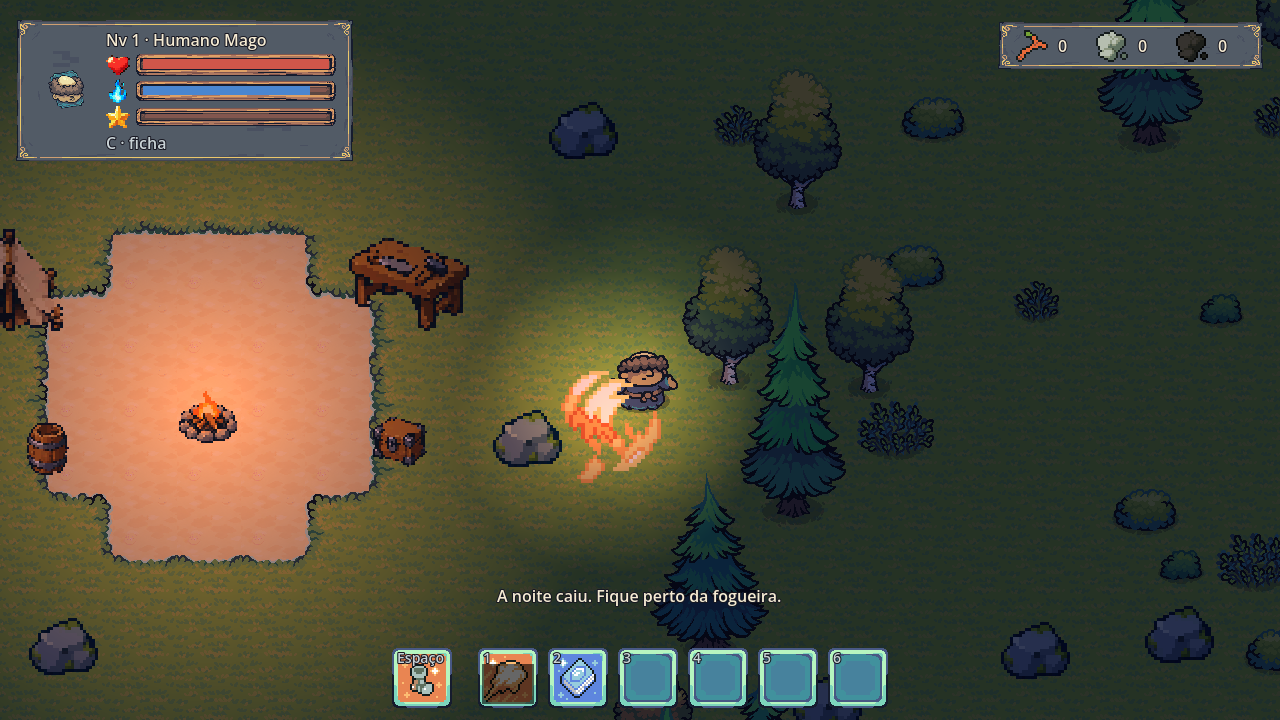
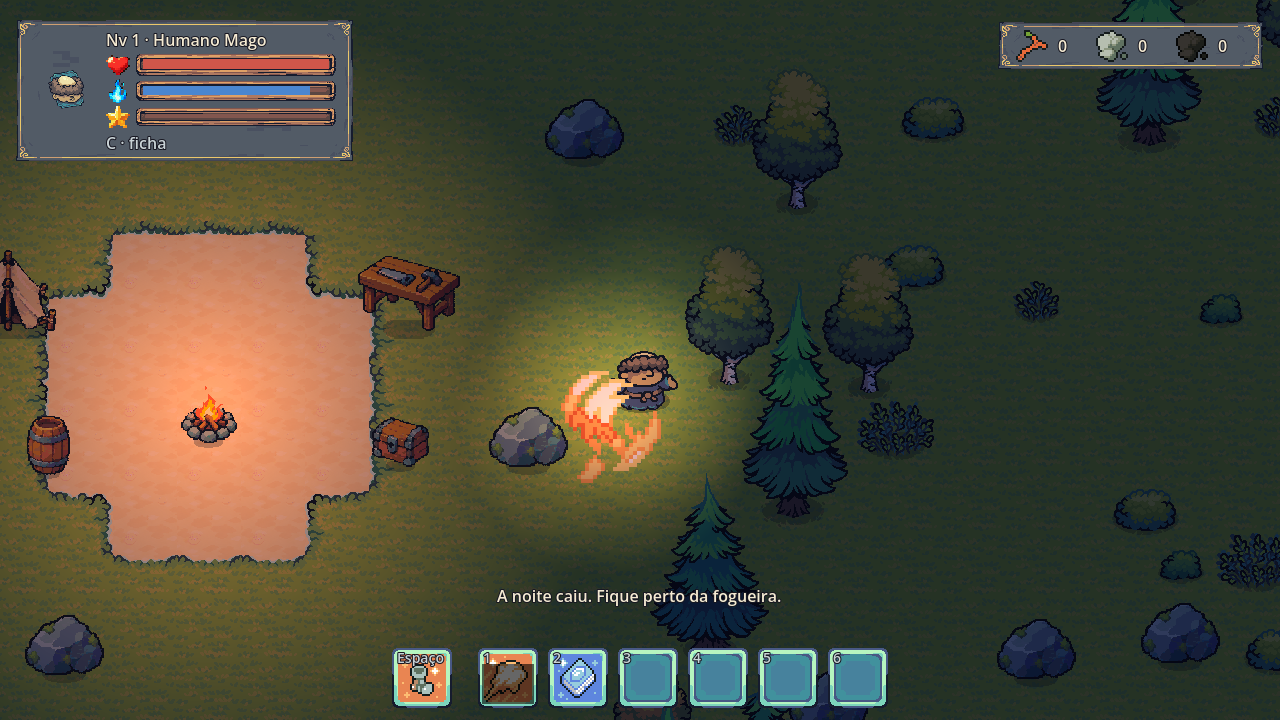
L14: acampamento, pedras, cogumelo e slime refeitos no pixel do Tiny Swords
- pedidos novos com régua 4x, exemplo do que não fazer e blocos FAÇA / NÃO FAÇA / NÃO SIGA
- conversão no grid do pacote (4 px), cores trocadas pela paleta do pacote e a sombra
  do próprio pacote embaixo de cada peça (importar_folha --sombra)
- comparação lado a lado aprovada antes de entrar (evidence/comparacao/l14_v2*.png)
- tudo com escala 0,25, igual às peças do pacote

diff --git a/art/prompts/pedidos/L13_personagens_base.md b/art/prompts/pedidos/L13_personagens_base.md
@@ -1,0 +1,51 @@
+# L13 · Nossos 6 personagens no estilo Tiny Swords (etapa A: só o parado)
+
+**Por quê (30/10):** o jogo está no estilo Tiny Swords e os personagens ainda são os do pacote. Estes são os NOSSOS: 2 raças x 3 classes. Antes das animações (andar, golpe), o João aprova o desenho base de cada um.
+
+**O que deu errado antes (não repetir):** no L11 e no L12 o Codex desenhou com o pixel 2 a 3 vezes maior que o do pacote, com contorno preto grosso e cores fortes. Ao lado das peças do pacote, ficou grosseiro.
+
+**Anexar, nesta ordem:**
+1. `art/prompts/reguas/personagens_4x.png`: **A RÉGUA.** Seis unidades do pacote ampliadas EXATAMENTE 4x, na MESMA grade desta folha. Copiar dela o tamanho do pixel, o tamanho do personagem, o contorno, as cores e as proporções.
+2. `evidence/comparacao/l12_atual.png`: **EXEMPLO DO QUE NÃO FAZER.** Em cima, o pacote (certo). Embaixo, a nossa tentativa anterior (errada: pixel grosso, contorno preto, cores fortes).
+3. `art/sprites/personagens/personagens_v1.png`: **SÓ para saber quem é quem** (as cores da roupa de cada um). NÃO copiar o estilo, o tamanho do pixel nem o rosto desta imagem.
+
+```text
+TAREFA: desenhar 6 personagens NOVOS que pareçam ter saído do MESMO pacote da imagem-régua anexada (o jogo Tiny Swords). Imagem 1536x1024, grade de 3 colunas x 2 linhas, células de 512x512. Cada célula tem UM personagem de 128x128 pixels de jogo, ampliado EXATAMENTE 4x (cada pixel do jogo = um quadrado de 4x4 na imagem, igual à régua).
+
+FAÇA:
+- Mesmo tamanho de pixel da régua: quadrados de 4x4, todos alinhados na mesma grade.
+- Mesmo tamanho de personagem da régua: cerca de 80 pixels de jogo de altura (320 na imagem), pés na mesma altura dos pés da régua, 16 px acima do fundo da célula.
+- Mesmo jeito de corpo da régua: cabeça grande e redonda, corpo curto e roliço, perninhas curtas e finas, mãos redondinhas.
+- Contorno de 1 pixel de jogo (4 px na imagem) na cor #161c2e em volta de tudo e entre as partes, como na régua.
+- Sombreamento em 2 ou 3 tons por material, com luz de cima à esquerda, cores apagadas como na régua. Use estas cores do pacote: #161c2e #485884 #4c5c8b #4697ac #9cbeaa #688c8a #c8a876 #efe1ab #977b6b #5e5455 #924159 #8d4848 #e76161 #cf9c71 #cea554 #44a079 #699157 #6e7e53 #ffffff.
+- Personagem de PERFIL olhando para a DIREITA, parado, igual às unidades da régua.
+- Rosto simples como o do trabalhador da régua: olhos de 2 pixels escuros, boca de 1 ou 2 pixels.
+
+OS 6 PERSONAGENS:
+1) HUMANO GUERREIRO: elmo de aço aberto (dá para ver o rosto) com pluma azul, túnica azul, escudo redondo de madeira com borda de aço, espada curta.
+2) HUMANO MAGO: capuz azul-escuro com borda dourada, mechas de cabelo castanho, túnica azul até o chão, cajado de madeira com uma pedra azul na ponta.
+3) HUMANO ARQUEIRO: capuz de couro marrom, túnica verde-musgo apagada, arco curto de madeira na mão, aljava nas costas.
+4) OGRO GUERREIRO: pele verde-acinzentada (#699157 e #6e7e53), corpo mais largo e forte que o humano (mesma altura), duas presas brancas pequenas saindo do lábio de BAIXO e apontando para cima, sem capacete, ombreira de couro, porrete de madeira grosso.
+5) OGRO MAGO: mesma pele e presas do ogro guerreiro, capuz e túnica azul-escuros com borda dourada (como o mago humano), cajado com pedra azul.
+6) OGRO ARQUEIRO: mesma pele e presas, capuz de couro MARROM e colete marrom (nada de roupa verde: a pele já é verde), arco curto e aljava.
+
+NÃO FAÇA:
+- NÃO use pixel maior que 4x4 na imagem (a tentativa anterior usou ~11 px: ficou grosseira).
+- NÃO desenhe ilustração com "cara de pixel": nada de quadradinhos de tamanhos diferentes, degradê dentro de um quadrado ou borrado.
+- NÃO use contorno preto puro nem contorno grosso de 2 ou mais pixels de jogo.
+- NÃO use cores saturadas, neon nem degradê suave.
+- NÃO desenhe sombra no chão (o jogo coloca a sombra; a mancha roxa embaixo da régua é a sombra deles sobre o magenta, ignore).
+- NÃO desenhe chão, grama, cenário, efeitos, brilho, texto, número, moldura ou linhas de grade.
+- NÃO deixe o personagem pequeno no meio da célula nem encostando na borda; nada atravessa para a célula vizinha.
+- NÃO desenhe o ogro com marcas brancas embaixo dos olhos (parecem lágrimas): as presas saem da BOCA.
+- NÃO desenhe de frente nem de costas: só de perfil para a direita.
+
+NÃO SIGA:
+- NÃO siga o estilo da imagem de identidade (personagens_v1.png): ela é de outro estilo e serve só para saber as cores da roupa.
+- NÃO siga a fileira de baixo da imagem de exemplo (l12_atual.png): é o que deu errado.
+- NÃO siga "pixel art de RPG genérico" nem anime: siga só a régua.
+```
+
+## Depois de gerar
+
+Salvar só em `art/sprites/tiny/candidatos/personagens_base_v1.png`. Não mexer em `game/` nem em nenhum outro arquivo. Responder com o caminho e o tamanho em pixels da imagem.

diff --git a/art/prompts/pedidos/L14_acampamento_pedras_v2.md b/art/prompts/pedidos/L14_acampamento_pedras_v2.md
@@ -1,0 +1,73 @@
+# L14 · Acampamento, pedras e slime refeitos no estilo Tiny Swords
+
+**Por quê (30/10):** o João reprovou o acampamento e as pedras do L12 ("muito ruim"). Ao lado das peças do pacote, o diagnóstico mostrou:
+- pixel 2 a 3 vezes maior que o deles;
+- contorno preto e grosso;
+- cores fortes;
+- sem sombra no chão.
+
+Ver `design/processo_arte.md`, seção "Diagnóstico do L12".
+
+**Anexar, nesta ordem (nos dois pedidos):**
+1. `art/prompts/reguas/objetos_4x.png`: **A RÉGUA.** Peças do pacote ampliadas EXATAMENTE 4x, na MESMA grade (pedra de ouro, ovelha, arbusto, toco, tora, pedrinha).
+2. `art/prompts/reguas/personagens_4x.png`: tamanho dos personagens do pacote, na mesma escala, para os objetos terem o tamanho certo perto deles.
+3. `evidence/comparacao/l12_atual.png`: **EXEMPLO DO QUE NÃO FAZER.** Em cima, o pacote (certo). Embaixo, a nossa tentativa anterior (errada).
+
+**Regras (copiar no começo dos dois pedidos):**
+
+```text
+TAREFA: desenhar objetos NOVOS que pareçam ter saído do MESMO pacote da imagem-régua anexada (o jogo Tiny Swords). Imagem 1536x1024, grade de 3 colunas x 2 linhas, células de 512x512. Cada célula tem UM objeto num quadro de 128x128 pixels de jogo, ampliado EXATAMENTE 4x (cada pixel do jogo = um quadrado de 4x4 na imagem, igual à régua).
+
+FAÇA:
+- Mesmo tamanho de pixel da régua: quadrados de 4x4, todos alinhados na mesma grade.
+- O tamanho de cada objeto em PIXELS DE JOGO está na lista (na imagem, multiplique por 4). Compare com a régua: a ovelha tem ~40 de largura e o personagem ~80 de altura.
+- A base do objeto 16 px acima do fundo da célula, centralizado na largura.
+- Contorno de 1 pixel de jogo (4 px na imagem) na cor #161c2e em volta e entre as partes, como na régua.
+- Formas redondinhas e simples, sombreamento em 2 ou 3 tons por material, luz de cima à esquerda, vistos de cima em 3/4 como as peças da régua.
+- Cores apagadas do pacote: madeira #977b6b #8d6857 #c8a876 #cf9c71 #5e5455; pedra #688c8a #9cbeaa #485884 #5e5455; verde #44a079 #699157 #6e7e53; lona e papel #efe1ab #e1dca3 #bbae93; fogo #e9f044 #e76161 #cea554; contorno #161c2e.
+
+NÃO FAÇA:
+- NÃO use pixel maior que 4x4 na imagem (a tentativa anterior usou ~11 px: ficou grosseira).
+- NÃO desenhe ilustração com "cara de pixel": nada de quadradinhos de tamanhos diferentes, degradê dentro do quadrado ou borrado.
+- NÃO use contorno preto puro nem contorno com 2 ou mais pixels de jogo.
+- NÃO use cores saturadas (nada de laranja vivo na madeira nem verde-limão).
+- NÃO desenhe sombra no chão (o jogo coloca; a mancha roxa embaixo das peças da régua é a sombra deles sobre o magenta, ignore).
+- NÃO desenhe chão, grama, cenário, texto, número, moldura ou linhas de grade.
+- NÃO deixe o objeto maior ou menor do que a medida pedida, e nada atravessa para a célula vizinha.
+
+NÃO SIGA:
+- NÃO siga a fileira de baixo da imagem de exemplo (l12_atual.png): é o que deu errado.
+- NÃO siga "pixel art de RPG genérico": siga só a régua.
+```
+
+## 1. Acampamento
+
+**Saída:** `art/sprites/tiny/candidatos/acampamento_v2.png`
+
+```text
+(regras acima) +
+1) Fogueira acesa: anel de 7 pedras cinza-azuladas redondas, 3 toras e uma chama amarela e vermelha simples. 52 x 44 pixels de jogo.
+2) Barraca de lona clara (#efe1ab) em forma de A, com duas estacas de madeira e cordas, entrada escura no meio. 104 x 92.
+3) Baú de madeira com tampa arredondada, cantos e fecho de metal cinza-azulado. 44 x 36.
+4) Barril de madeira em pé, com dois aros de metal. 32 x 42.
+5) Bancada de trabalho: mesa de madeira grossa com um martelo e uma serra em cima. 84 x 56.
+6) Varal: dois postes de madeira com uma corda e um pano claro pendurado. 96 x 64.
+```
+
+## 2. Pedras, cogumelo e slime
+
+**Saída:** `art/sprites/tiny/candidatos/pedras_slime_v2.png`
+
+```text
+(regras acima) +
+1) Pedra grande cinza-azulada (#688c8a, #9cbeaa, sombra #485884), arredondada, com 2 manchinhas de musgo. O MESMO tipo de forma e acabamento da pedra de ouro da régua, mas pedra comum. 64 x 52 pixels de jogo.
+2) A mesma pedra rachada ao meio, com 2 pedrinhas soltas ao lado. 70 x 52.
+3) Pedra média do mesmo tipo. 44 x 36.
+4) Grupinho de 3 cogumelos turquesa (#4697ac, #9cbeaa) com cabinho claro. 32 x 30.
+5) Slime verde (#44a079, #39cd6a, brilho #d4edc2) parado: gota redonda, olhos de 2 pixels escuros, sem boca. 44 x 36.
+6) O mesmo slime achatado (no meio do pulo). 52 x 28.
+```
+
+## Depois de gerar
+
+Salvar só nos dois caminhos acima. Não mexer em `game/` nem em nenhum outro arquivo. Responder com os caminhos e o tamanho em pixels de cada imagem.

diff --git a/art/prompts/pedidos/L13b_personagens_base_8x.md b/art/prompts/pedidos/L13b_personagens_base_8x.md
@@ -1,0 +1,49 @@
+# L13b · Os 6 personagens, um por imagem, em 8x (pixel igual ao do pacote)
+
+**Por quê:** no L13 os 6 personagens saíram bons de forma, mas com o pixel 2x maior que o do Tiny Swords. O Codex desenhou com quadrados de ~8,5 px numa célula pequena, e o personagem ficou com ~40 pixels de altura; os do pacote têm ~88. Comparação: `evidence/comparacao/l13_personagens_v1.png` (em cima o pacote, embaixo o L13).
+
+**Solução:** um personagem por imagem, 1024x1024, num quadro de 128x128 pixels de jogo ampliado EXATAMENTE 8x. Assim o personagem tem ~88 pixels de jogo de altura, com quadrados de 8x8: a mesma densidade do pacote.
+
+**Anexar, nesta ordem:**
+1. `art/prompts/reguas/personagens_4x.png`: a RÉGUA do estilo do pacote (está em 4x; o pedido é em 8x, então cada quadrado nosso tem o DOBRO do tamanho de um quadrado da régua, e o personagem fica do dobro do tamanho na imagem).
+2. `art/sprites/tiny/candidatos/personagens_base_v1.png`: o desenho APROVADO de forma de cada personagem (célula indicada). Redesenhar o MESMO personagem, com o dobro de pixels.
+3. `evidence/comparacao/l13_personagens_v1.png`: em cima o pacote (certo); embaixo o L13 (forma certa, pixel grosso demais).
+
+```text
+TAREFA: redesenhar UM personagem (o da célula N da folha anexada personagens_base_v1.png) no MESMO estilo do pacote Tiny Swords da régua anexada, agora com o DOBRO de pixels. Imagem 1024x1024 = UM quadro de 128x128 pixels de jogo ampliado EXATAMENTE 8x: cada pixel do jogo é um quadrado de 8x8, todos alinhados numa grade que começa no canto (0,0).
+
+FAÇA:
+- O personagem tem cerca de 88 pixels de jogo de altura (704 px na imagem) e cerca de 64 de largura, com os pés a 16 pixels de jogo do fundo (a base dos pés em y=896 na imagem), centralizado.
+- O MESMO personagem da célula indicada: mesma roupa, mesmas cores, mesma pose, mesmo objeto na mão, de perfil olhando para a direita. Só com mais pixels: mais acabamento nas bordas, nas dobras e no rosto, como as unidades da régua.
+- Contorno de 1 pixel de jogo (8 px na imagem), cor #161c2e, em volta de tudo e entre as partes.
+- Sombreamento em 2 ou 3 tons por material, luz de cima à esquerda, cores apagadas do pacote: #161c2e #485884 #4c5c8b #4697ac #9cbeaa #688c8a #c8a876 #efe1ab #977b6b #5e5455 #924159 #8d4848 #e76161 #cf9c71 #cea554 #44a079 #699157 #6e7e53 #ffffff.
+- Proporções da régua: cabeça grande e redonda, corpo curto e roliço, perninhas curtas.
+
+NÃO FAÇA:
+- NÃO use quadrado maior nem menor que 8x8 na imagem; NÃO misture tamanhos.
+- NÃO desenhe o personagem pequeno: ele ocupa ~70% da altura da imagem.
+- NÃO use contorno preto puro, nem contorno com 2 ou mais pixels de jogo.
+- NÃO use degradê, borrado, anti-aliasing, brilho nem textura de ruído.
+- NÃO desenhe sombra no chão (o jogo coloca), chão, cenário, efeitos, texto ou moldura.
+- NÃO mude a roupa, as cores nem o objeto da mão do personagem da célula indicada.
+- No ogro: as presas saem da BOCA (lábio de baixo, apontando para cima); NADA de marcas brancas embaixo dos olhos.
+
+NÃO SIGA:
+- NÃO siga a fileira de baixo da imagem de comparação no tamanho do pixel (ali o pixel ficou grosso demais): siga a régua.
+- NÃO siga "pixel art de RPG genérico" nem anime.
+```
+
+## Saídas (uma imagem por personagem, mesmo texto, trocando a célula)
+
+| Arquivo | Célula de `personagens_base_v1.png` |
+|---|---|
+| `art/sprites/tiny/candidatos/base_humano_guerreiro.png` | 1: Humano Guerreiro |
+| `art/sprites/tiny/candidatos/base_humano_mago.png` | 2: Humano Mago |
+| `art/sprites/tiny/candidatos/base_humano_arqueiro.png` | 3: Humano Arqueiro |
+| `art/sprites/tiny/candidatos/base_ogro_guerreiro.png` | 4: Ogro Guerreiro |
+| `art/sprites/tiny/candidatos/base_ogro_mago.png` | 5: Ogro Mago |
+| `art/sprites/tiny/candidatos/base_ogro_arqueiro.png` | 6: Ogro Arqueiro |
+
+## Depois de gerar
+
+Salvar só nos seis caminhos acima. Não mexer em `game/` nem em nenhum outro arquivo. Responder com os caminhos e o tamanho em pixels de cada imagem.
